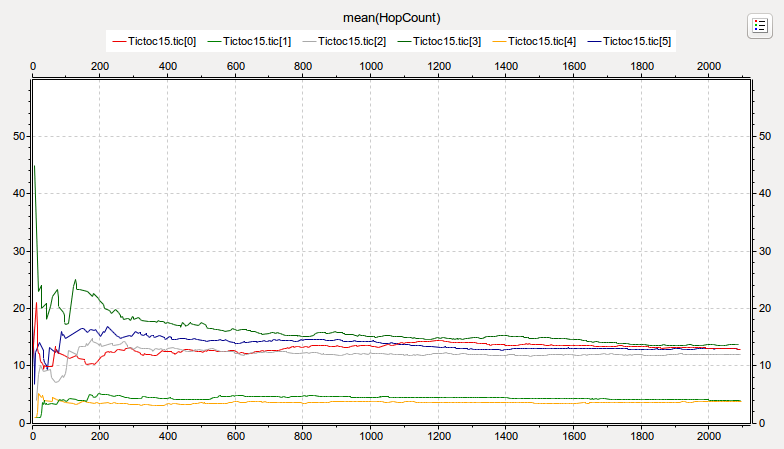
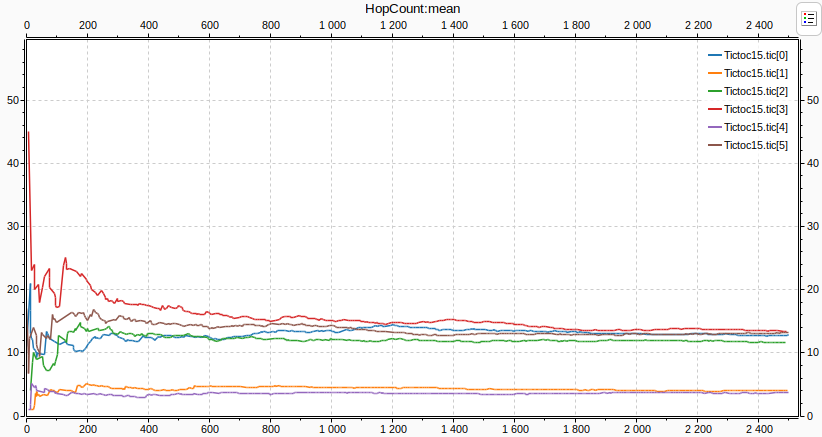
tutorials/tictoc: Update the result analysis part for OMNeT++ 6

Changed region(s): [[0.0, 0.0, 1.0, 1.0], [0.0918, 0.0297, 0.1224, 0.0892]]

diff --git a/docs/tutorials/tictoc/part6.md b/docs/tutorials/tictoc/part6.md
@@ -2,17 +2,17 @@
 
 ## 6.1 Visualizing output scalars and vectors
 
-The OMNeT++ IDE can help you to analyze your results. It supports filtering,
-processing and displaying vector and scalar data, and can display histograms, too.
+The OMNeT++ IDE can help you analyze your results. It supports filtering,
+processing, and displaying scalar, vector, and histogram data.
 The following diagrams have been created with the Result Analysis tool of the IDE.
 
 The `results` directory in the project folder contains .vec and .sca files, which are the files that store the results in vector and scalar form, respectively.
 Vectors record data values as a function of time, while scalars typically record aggregate values at the end of the simulation.
 To open the Result Analysis tool, double click on either the .vec or the .sca files in the OMNeT++ IDE. Both files will be loaded by the Result Analysis tool.
 You can find the `Browse Data` tab at the bottom of the Result Analysis tool panel. Here you can browse results by type by switching the various tabs
-at the top of the tool panel, ie. Scalars, Vectors, or Histograms. By default, all results of a result type are displayed. You can filter them by the module filter
+at the top of the tool panel, ie. Scalars, Vectors, Statistics, or Histograms. By default, all results of a result type are displayed. You can filter them by the module filter
 to view all or some of the individual modules, or the statistic name filter to display different types of statistics, ie. mean, max, min, standard deviation, etc.
-You can select some or all of the individual results by highlighting them. If you select multiple results, they will be plotted on one chart. Right click and select Plot to display the figures.
+You can select some or all of the individual results by highlighting them. If you select multiple results, they will be plotted on one chart. Right click and select one of the *Plot using ...* menu items to display the figures.
 
 <img src="../images/statistics.png">
 
@@ -22,21 +22,16 @@ You can select some or all of the individual results by highlighting them. If yo
 
 Our last model records the `hopCount` of a message each time the message
 reaches its destination.
-To plot these vectors for all nodes, select the 6 nodes in the browse data tab.
-Right click and select Plot.
+To plot these vectors for all nodes, select the 6 lines in the browse data tab,
+then right click and select *Plot using Line chart*.
 
 <img src="../images/selectplot2.png">
 
 We can change various options about how the data on the chart is displayed.
-Right click on the chart background, and select Properties.
-This opens the *Edit LineChart* window.
-In the *Lines* tab, set *Line type* to *Dots*, and *Symbol Type* to *Dot*.
+Right click on the chart background, and select *Configure Chart*.
+In the appearing dialog, on the *Lines* tab, set *Line style* to *none*, and *Marker* to *. (dot)*.
 
 <img src="../images/editlinechart2.png" width="850px">
-
-To add a legend to the chart, select *Display legend* on the *Legend* tab.
-
-<img src="../images/displaylegend.png">
 
 The chart looks like the following:
 
@@ -44,9 +39,9 @@ The chart looks like the following:
 
 If we apply a `mean` operation we can see how the `hopCount` in the different
 nodes converge to an average.
-Right-click the chart, and select *Apply -> Mean*.
-Again, right-click on the chart background, and select *Properties*.
-In the *Lines* tab, set *Line type* to Linear, and *Symbol Type* to None.
+Right-click the chart, and select *Apply... -> Mean*.
+Again, right-click on the chart background, and select *Configure Chart*.
+In the *Lines* tab, set *Line style* to *solid*, and *Marker* to *none*.
 The mean is displayed on the following chart. The lines are easier to see this way because they are thinner.
 
 <img src="../images/mean3.png">
@@ -54,14 +49,18 @@ The mean is displayed on the following chart. The lines are easier to see this w
 Scalar data can be plotted on bar charts.
 The next chart displays the mean and the maximum of the `hopCount` of the messages
 for each destination node, based on the scalar data recorded at the end of the simulation.
-In the *Browse data* tab, select *Scalars*. Now select `hop count:max` and `hop count:mean`
-for all 6 nodes.
+In the *Browse data* tab, select *Scalars*, and make sure that the *Show Statistics/Vector Fields as Scalars*
+button is enabled on the top-right toolbar. Now select `hop count:max` and `hop count:mean` for all 6 nodes.
+You can use filtering and sorting to find the scalars easier, as shown below.
 
+<img src="../images/selectplot3.png">
+
+This is how the chart looks like:
 
 <img src="../images/scalars.png">
 
 To create a histogram that shows `hopCount`'s distribution, select *Histograms*
-on the *Browse data* tab. Select all nodes, and right click *Plot*.
+on the *Browse Data* tab. Select all rows, then right click, and choose *Plot using Histogram Chart*.
 
 <img src="../images/histogram.png">
 

diff --git a/docs/tutorials/tictoc/part7.md b/docs/tutorials/tictoc/part7.md
@@ -87,34 +87,28 @@ We'll display the average hop count for messages that reach their destinations v
 Additionally, we will display the average number of packets that reached their destinations vs *N*.
 The analysis file `Tictoc18.anf` contains the dataset we will use for the visualization.
 
-<img src="../images/dataset.png">
-
 These two average scalars are not recorded during the simulation, we will have to compute them from the available data.
 
 The hop count is recorded at each node when a message arrives, so the mean of hop count will be available as a statistic.
 But this is recorded per node, and we're interested in the average of the mean hop count for all nodes.
-The 'Compute Scalar' dataset node can be used to compute scalar statistics from other scalars.
-We compute `AvgHopCount` as `mean(**.'hopCount:stats:mean')`.
-
-We're also interested in the average number of packets that arrive at their destination.
-The count of the arrived packets is available at each node. We can compute their average,
-`AvgNumPackets` as `mean('hopCount:stats:count')`.
+The Scatter Chart can average multiple values before plotting them.
 
 !!! tip
-    Refer to the chapter "Using the Analysis Editor" in the *User Guide* for more information on datasets. You can find it in the `doc/` directory of your OMNeT++ installation.
+    Refer to the chapter "Analysing the Results" in the *User Guide* for more information on charts. You can find it in the `doc/` directory of your OMNeT++ installation.
 
-Then, we plot these two computed scalars against *N* in two scatter charts. The data for different repetitions is automatically averaged.
+To make the chart average the hop count over all nodes instead of plotting them as separate lines, set the axes in the configuration dialog as shown:
+
+<img src="../images/editscatterchart.png">
+
 Here is the average hop count vs *N*:
 
 <img src="../images/avghopcount.png">
 
 The average hop count increases as the network gets larger, as packets travel more to reach their destination.
-The increase is polynomial. Notice that there are missing values at the far right of the chart.
-This is because in such a large network, some packets might not reach their destination in the simulation time limit.
-When no packets arrive at a node, the hop count statistic will be *NaN* (not a number) for that node.
-When there is a *NaN* in any mathematical expression, its result will be also *NaN*.
-Thus it takes just one node in all the simulation runs to have a *NaN* statistic, and the average will be *NaN*, and there'll be no data to display.
-This can be remedied by increasing the simulation time limit, so more packets have a chance to arrive.
+The increase is polynomial.
+
+We're also interested in the average number of packets that arrive at their destination.
+The count of the arrived packets is available at each node.
 
 Below is the average number of packets that arrived vs *N*:
 
